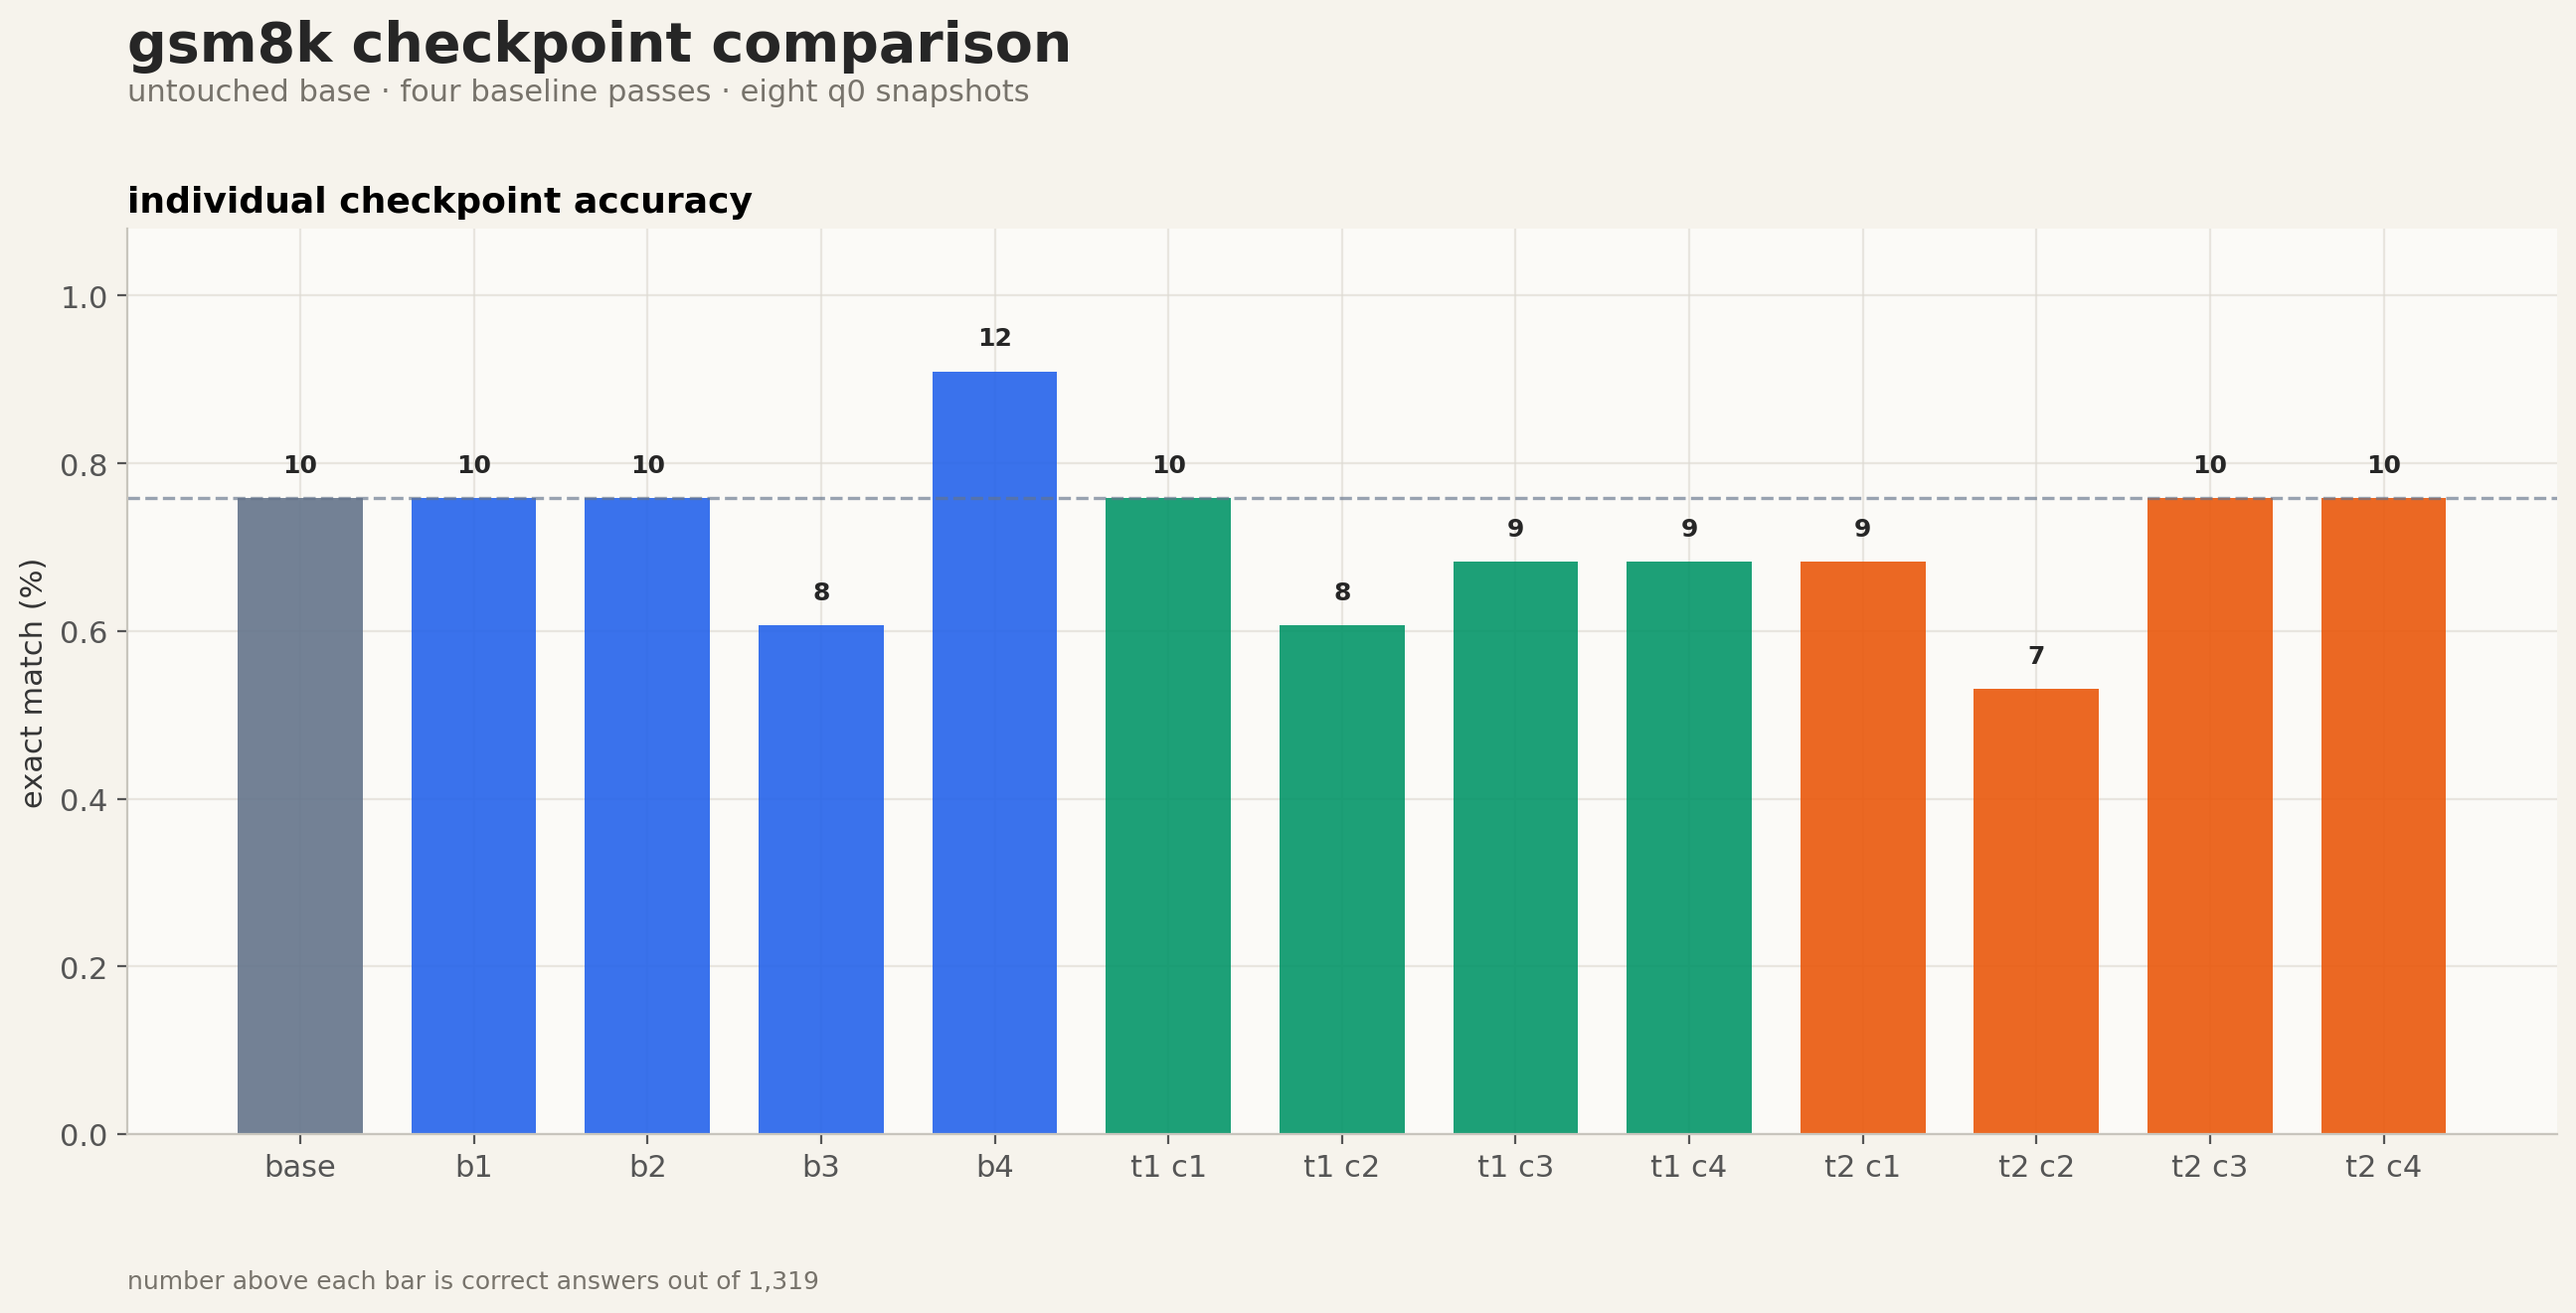
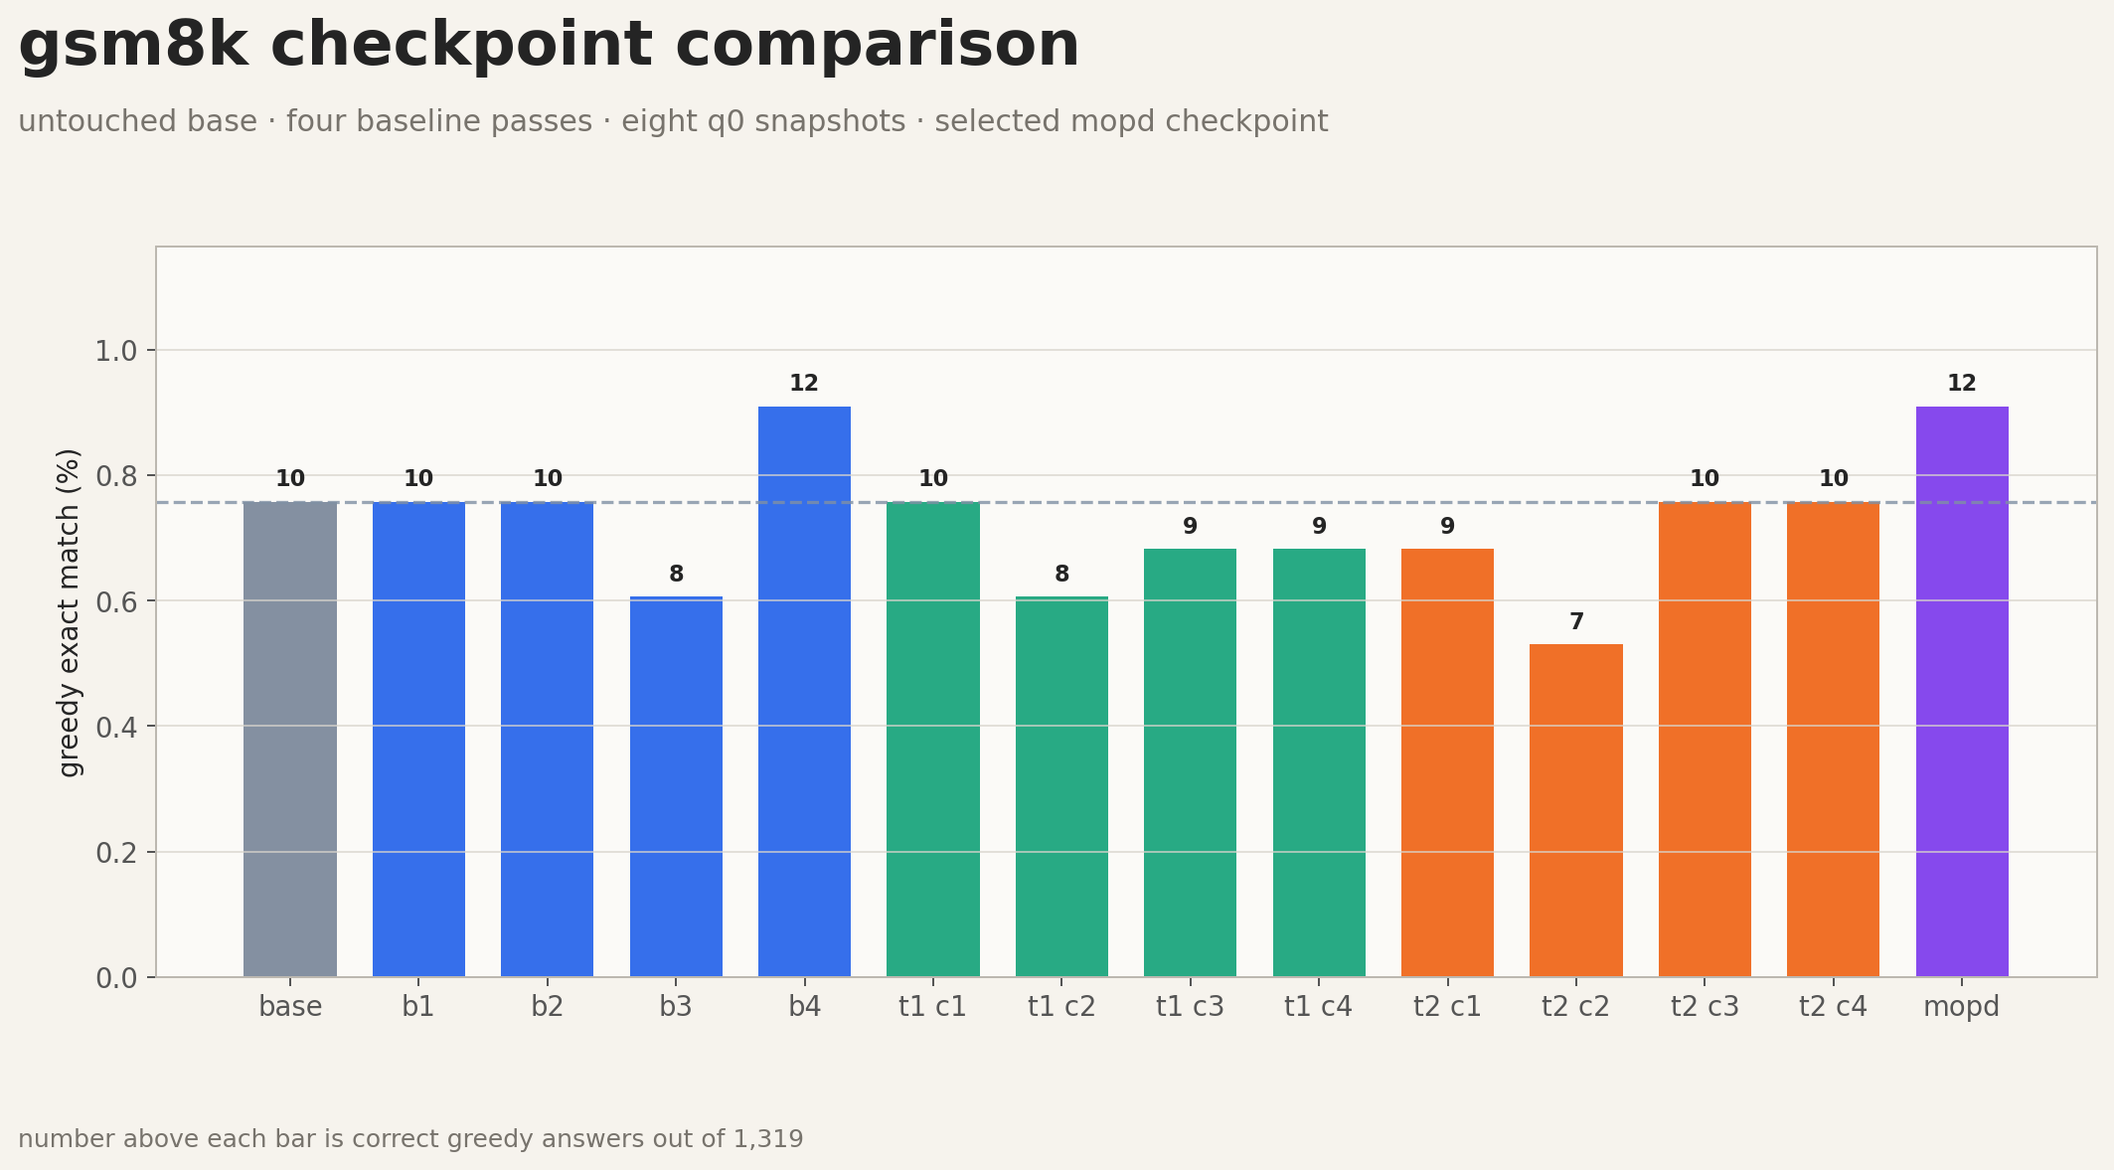
docs: add distilled checkpoint results

diff --git a/README.md b/README.md
@@ -2,7 +2,7 @@
 
 a small, exploratory adaptation of [q0: Primitives for Hyper-Epoch Pretraining](https://arxiv.org/abs/2606.03938) to reasoning with GRPO. the base model is `HuggingFaceTB/SmolLM2-135M-Instruct`, pinned to revision `12fd25f`.
 
-🤗 [baseline checkpoints](https://huggingface.co/Pradheep1647/q0-gsm8k-135m-baseline) · 🤗 [q0 snapshots and weights](https://huggingface.co/Pradheep1647/q0-gsm8k-135m)
+🤗 [baseline checkpoints](https://huggingface.co/Pradheep1647/q0-gsm8k-135m-baseline) · 🤗 [q0 snapshots and weights](https://huggingface.co/Pradheep1647/q0-gsm8k-135m) · 🤗 [distilled checkpoint](https://huggingface.co/Pradheep1647/q0-gsm8k-135m-mopd)
 
 ![q0 pipeline](q0.png)
 
@@ -28,6 +28,7 @@ all numbers below use the complete 1,319-example GSM8K test split.
 | best q0 snapshot | 10 | 0.758% |
 | learned ensemble, K=8 | 11 | 0.834% |
 | uniform ensemble, K=8 | 12 | 0.910% |
+| distilled student, selected at step 8 | 12 | 0.910% |
 
 ![checkpoint accuracy comparison](checkpoint_accuracy_comparison.png)
 
@@ -54,15 +55,32 @@ $$
 \mathcal{L} = \frac{1}{4}\sum_{i=1}^{4} KL\left(p_{T_i} \parallel p_\theta\right).
 $$
 
-`mixture_weights.json` is used only to choose the top-4 snapshot names. their numeric weights do not enter the loss; each teacher contributes equally. this is not an exact MOPD reproduction because the paper routes domains and uses reverse KL. this small variant keeps the shared-origin teachers and student-generated states, but uses direct forward-KL distillation. it runs one pass over the same 2,048 prompts and saves one `opsd.pt` checkpoint plus its own JSONL metrics.
+`mixture_weights.json` is used only to choose the top-4 snapshot names. their numeric weights do not enter the loss; each teacher contributes equally. this is not an exact MOPD reproduction because the paper routes domains and uses reverse KL. this small variant keeps the shared-origin teachers and student-generated states, but uses direct forward-KL distillation.
 
-the table above predates this follow-up, so it makes no accuracy claim for the distilled checkpoint yet. `run_all.sh` now trains it after q0 and evaluates it under the `mopd` result key. that comparison tells us whether the top-4 inference ensemble can be compressed into one model without losing its small gain.
+the student ran one pass over 2,048 prompts, with candidates saved at steps 8, 16, 24, and 32. selection used a fresh 512-question slice from the unused GSM8K train remainder. each question got eight sampled answers, then candidates were ranked by pass@8, pass@4, and pass@1. step 8 won with 5.47% validation pass@8.
+
+![distillation training curves](mopd_training_curves.png)
+
+the forward KL stayed in a narrow 0.0040 to 0.0046 range. it did not steadily fall, which already suggests the extra steps were not producing a clear distillation gain.
+
+![distilled checkpoint validation](mopd_validation_comparison.png)
+
+| official test system | greedy | pass@1 | pass@4 | pass@8 |
+| --- | ---: | ---: | ---: | ---: |
+| best baseline, pass 4 | 0.91% | 0.78% | 2.85% | 5.16% |
+| best q0 checkpoint | 0.76% | 0.54% | 2.03% | 3.79% |
+| distilled student, step 8 | 0.91% | 0.51% | 1.94% | 3.64% |
+
+![final distilled checkpoint comparison](mopd_final_comparison.png)
+
+the single student matched the best baseline and uniform K=8 ensemble under greedy decoding, with 12/1,319 correct. sampled pass@k was weaker than both comparison checkpoints. so this run compressed the four-teacher training signal into one model, but did not improve reasoning accuracy. the validation winner also did not transfer into a pass@k win on the official test split.
 
 ## files
 
 - `train_grpo.py`: four-pass GRPO baseline
 - `train_q0_grpo.py`: cyclic trajectories, KL distillation, snapshots, and learned prior
 - `train_mopd.py`: one-pass on-policy distillation into a single checkpoint
-- `eval.py`: individual, distilled, and probability-space ensemble evaluation
+- `eval.py`: individual, distilled, pass@k, and probability-space ensemble evaluation
 - `run_all.sh`: baseline, q0, distillation, then evaluation
-- `eval_results.json`, `mixture_weights.json`, and `run.log`: complete artifacts from the run
+- `eval_results.json` and `mixture_weights.json`: complete evaluation and mixture artifacts
+- `mopd_training_metrics.jsonl`, `mopd_validation_results.json`, and `mopd_*.log`: distilled run metrics and logs
